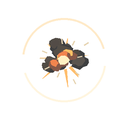
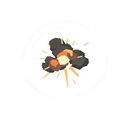
Break up missile pressure fronts

diff --git a/tools/build_weapon_explosion_cels_v2.py b/tools/build_weapon_explosion_cels_v2.py
@@ -50,6 +50,19 @@ def tapered_streak(draw, start, end, colour, width):
                    (end[0]-nx*0.12,end[1]-ny*0.12),(start[0]-nx,start[1]-ny)], colour)
 
 
+def pressure_arc(draw, cx, cy, radius, start, end, colour, width, rng, flatten=0.92):
+    """Draw an uneven held-cel condensation arc without a geometric ring."""
+    steps = max(5, int((end - start) * 8.0))
+    points = []
+    for step in range(steps + 1):
+        ratio = step / steps
+        angle = start + (end - start) * ratio
+        wobble = 1.0 + math.sin(angle * 3.0 + 0.7) * 0.025 + rng.uniform(-0.018, 0.018)
+        points.append((cx + math.cos(angle) * radius * wobble,
+                       cy + math.sin(angle) * radius * wobble * flatten))
+    line(draw, points, colour, width)
+
+
 def finish(image: Image.Image, size: int) -> Image.Image:
     return image.resize((size, size), Image.Resampling.LANCZOS)
 
@@ -97,8 +110,12 @@ def missile_frame(index: int, count: int = 11) -> Image.Image:
     if t < 0.34:
         ring = 8.0 + t * 170.0
         alpha = int(210*(1.0-t/0.34))
-        draw.arc(tuple(int(v*SCALE) for v in (cx-ring,cy-ring,cx+ring,cy+ring)),8,162,fill=(255,224,159,alpha),width=2*SCALE)
-        draw.arc(tuple(int(v*SCALE) for v in (cx-ring,cy-ring,cx+ring,cy+ring)),188,344,fill=(255,193,91,alpha),width=2*SCALE)
+        front_rng = random.Random(9640)
+        pressure_arc(draw,cx,cy,ring,-0.12,1.23,(221,244,247,alpha),1.55,front_rng)
+        pressure_arc(draw,cx,cy,ring,1.74,2.72,(196,229,237,int(alpha*0.78)),1.25,front_rng)
+        pressure_arc(draw,cx,cy,ring,3.18,5.38,(214,240,244,int(alpha*0.88)),1.45,front_rng)
+        if t > 0.08:
+            pressure_arc(draw,cx,cy,ring*0.84,3.54,4.72,(151,207,222,int(alpha*0.38)),0.8,front_rng,0.88)
     for fragment in range(10):
         angle = fragment * math.tau / 10.0 + rng.uniform(-0.25, 0.25)
         distance = radius * rng.uniform(0.72, 1.45)
@@ -230,7 +247,7 @@ def main():
             "rocket": {"frames": 8, "size": [128,128], "motion": "ground-coupled-dirt-flame-column-fragment"},
             "cannon": {"frames": 6, "size": [64,64], "motion": "directional-hot-metal-spall"},
         },
-        "rules": ["No full-screen bloom", "No circular particle rosette", "Smoke and debris outlive the hot core", "Ground bursts remain vertically biased"],
+        "rules": ["No full-screen bloom", "No circular particle rosette", "Missile pressure fronts use broken cool condensation contours", "Smoke and debris outlive the hot core", "Ground bursts remain vertically biased"],
     }
     SOURCE.mkdir(parents=True, exist_ok=True)
     (SOURCE / "manifest.json").write_text(json.dumps(manifest, indent=2) + "\n", encoding="utf-8")
